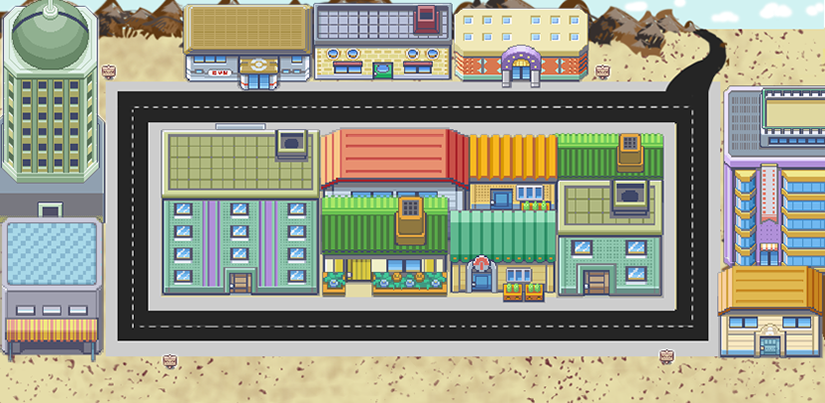
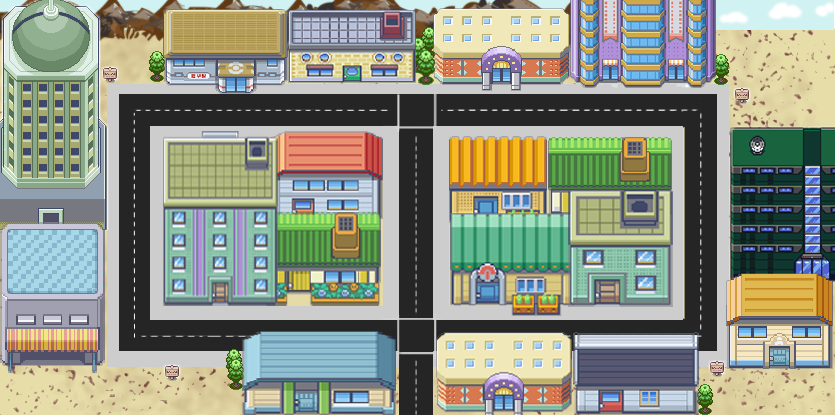
Editted Main GUI to incorporate intersections

diff --git a/src/home/gui/HomePersonGui.java b/src/home/gui/HomePersonGui.java
@@ -6,6 +6,10 @@ import java.awt.Graphics2D;
 
 public class HomePersonGui implements Gui {
 
+	public void DoClean() {
+		
+	}
+	
 	@Override
 	public void updatePosition() {
 		// TODO Auto-generated method stub
